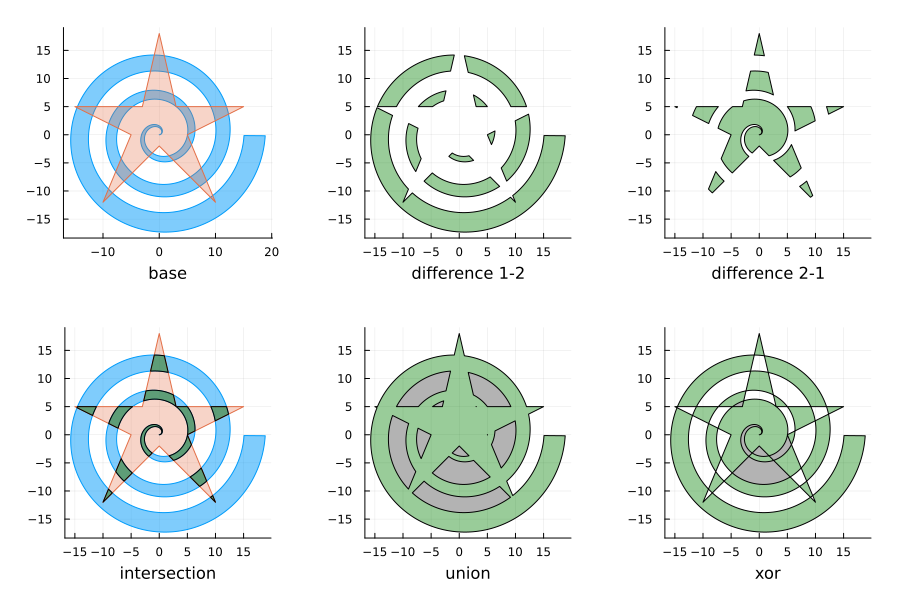
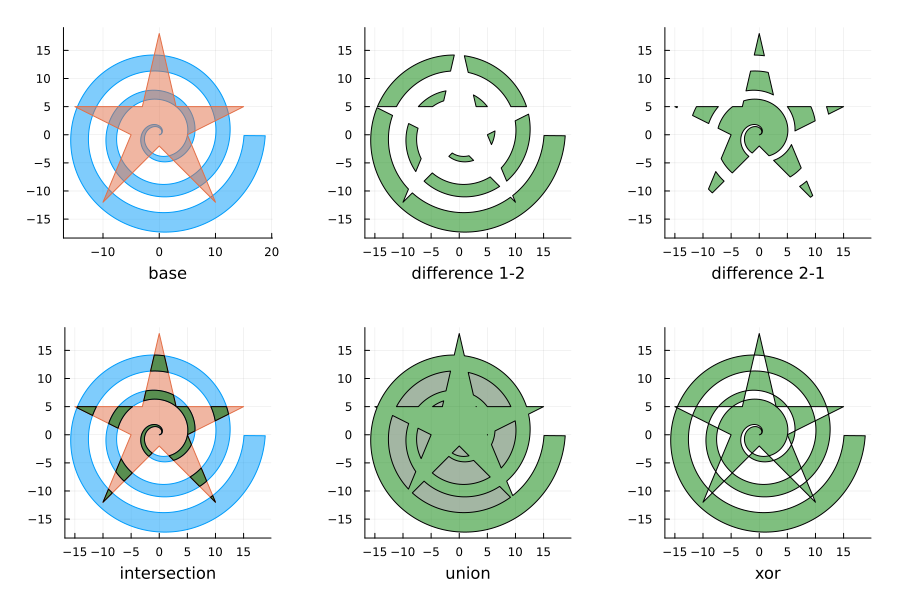
docs: update pictures and docs for face selection

diff --git a/README.md b/README.md
@@ -1,5 +1,14 @@
 # Polygon Algorithms
 
+1. [Description](#description)
+    1. [Example](#example)
+    1. [Representation](#representation)
+1. [Polygon Functions](#polygon-functions)
+1. [Robustness](#Robustness)
+1. [Segments to Paths](#segments-to-paths)
+1. [Installation](#installation)
+1. [Related](#related)
+
 Implementations of Polygon algorithms.
 
 <p align="center">
@@ -8,24 +17,6 @@ Implementations of Polygon algorithms.
 </p>
 
 ## Description
-### Representation
-
-There are several ways to represent polygons:
-- As a path given as a vector of points (tuples). The last point is assumed to share an edge with the first: `n + 1 = 1`.
-- With the internal `PolygonAlgorithms.Polygon` struct. This struct consists of an `exterior` and `holes`. Each sub-object must be a list of points (tuples). The holes should be properly contained in the polygon.
-Validation is not performed by default. Pass `validate=true` to the constructor to enable it.
-- As a list of segments. This representation naturally allows multi-polygons and holes. 
-It is used internally for some algorithms including the `martinez_rueda_algorithm`.
-    - Segments are converted back to paths and polygons using `PolygonAlgorithms.segments_to_paths` and `PolygonAlgorithms.segments_to_polygons`. This requires casting to a grid to match starting and end points of segments.
-    This is achieved by rounding any decimal places, by default to the 6th decimal place.
-
-For indexing use `x_coords` and `y_coords`. 
-Common broadcasting operations are supplied such as `translate` and `rotate`.
-
-An alternative representation for polygons is as 2&times;N matrices. 
-This is not used here, but can be more efficient for indexing and broadcasting operations such as translation and rotation.
-To convert to this representation and back, use `matrix_to_points` or `points_to_matrix`.
-
 ### Example
 
 ```julia
@@ -49,7 +40,20 @@ idxs = vcat(1:length(poly), 1)
 plot(x_coords(poly, idxs), y_coords(poly, idxs))
 ```
 
+### Representation
+
+There are several ways to represent polygons:
+- As a path given as a vector of points (tuples). The last point is assumed to share an edge with the first: `n + 1 = 1`.
+    - For indexing use `x_coords` and `y_coords`. 
+- With the internal `PolygonAlgorithms.Polygon` struct. This struct consists of an `exterior` and `holes`. Each sub-object must be a list of points (tuples). The holes should be properly contained in the polygon.
+Validation is not performed by default. Pass `validate=true` to the constructor to enable it.
+- As a list of segments. This representation naturally allows multi-polygons and holes. 
+It is used internally for some algorithms including the `martinez_rueda_algorithm`. There is some data transformation when converting back from this representation to a path. See the section [Segments to paths](#segments-to-paths) for more detail.
+- As a 2&times;N matrix for `N` points. This is not used here, but can be more efficient for indexing and broadcasting operations such as translation and rotation. To convert to this representation and back, use `matrix_to_points` or `points_to_matrix`.
+
 ## Polygon Functions
+
+Common broadcasting operations are supplied such as `translate` and `rotate`.
 
 For all of the the following `n` and `m` are the number of vertices of the polygons.
 
@@ -102,7 +106,7 @@ For all of the the following `n` and `m` are the number of vertices of the polyg
     - Operation: boolean operations on polygons.
     - Algorithm: Martinez-Rueda.
     - Concave, convex and self-intersecting with holes. Can operate on multiple polygons at once.
-    - Annotates each segments with 4 fill criteria: filled by itself above and/or below, and filled by the other polygon above and/or below. Once this has been accomplished, it is trivial to select segments which match the given operation. These segments are then combined to form the final polygon.
+    - Annotates each segments with 4 fill criteria: filled by itself above and/or below, and filled by the other polygon above and/or below. Once this has been accomplished, it is trivial to select segments which match the given operation. These segments are then combined to form the final polygon(s). See the section [Segments to paths](#segments-to-paths) for more detail. 
     - Time complexity: `O((n+m+k)log(n+m))`. 
     - Reference: https://www.researchgate.net/publication/220163820_A_new_algorithm_for_computing_Boolean_operations_on_polygons
     - Blog post: https://sean.fun/a/polygon-clipping-pt2/
@@ -173,6 +177,22 @@ This example is from [Clipper2: test 141](https://github.com/AngusJohnson/Clippe
 Hence for this example the intersections will be collapsed to a single point, and the segments adjusted slightly.
 This means that the two halves of each segment will no longer lie perfectly on a straight line.
 
+## Segments to paths
+
+Segments are converted back to paths and polygons by computing the faces of a graph. This has several implications.
+- It requires casting to a grid to match starting and end points of segments. This is achieved by rounding any decimal places, by default to the 6th decimal place.
+- Every zero area polygon (lines) will return a single face. 
+- For every non-zero area polygon, the graph will always have one counter-clockwise exterior and one or more clockwise interiors. Every area in the graph is therefore counted twice. There are two methods to reduce the faces in half:
+    - `MERGE_FACES`: all exterior faces that are not holes and holes are interior faces that are holes.
+    - `SPLIT_FACES`: all interior faces that are not holes that are on the exterior and interior faces that are holes that are not on the exterior.
+
+The following is a comparison of the two while running `difference(subject, clip; face_selection=method)`:
+<p align="center">
+  <img src="images/face_selection.png" width="80%" style="padding:5px"/>
+</p>
+
+The functions which implement this are `PolygonAlgorithms.segments_to_paths` and `PolygonAlgorithms.segments_to_polygons`.
+
 ## Installation
 
 In the Julia REPL:
@@ -187,7 +207,7 @@ Optionally, tests can be run with:
 (@v1.x) pkg> test PolygonAlgorithms
 ```
 
-For locally development: download the GitHub repository. Then in the Julia REPL:
+For local development: download the GitHub repository. Then in the Julia REPL:
 ```
 julia> ] #enter package mode
 (@v1.x) pkg> dev path\\to\\PolygonAlgorithms
